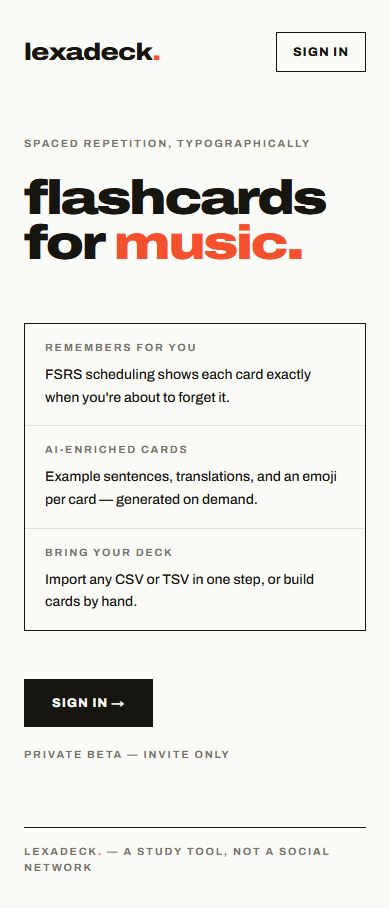
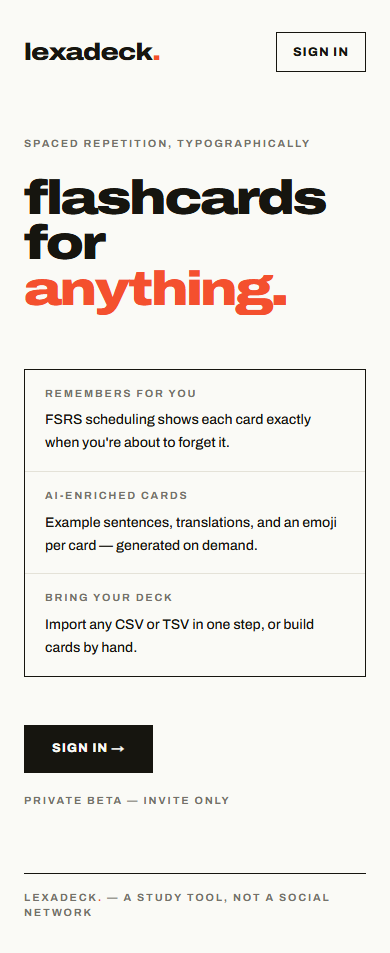
Landing rotation: one pass, then settle on "anything"
The endless loop pulled the eye away from the value props forever. Now:
hold "languages" 1.2s, move quickly through the middle words, decelerate,
and settle permanently on "flashcards for anything." — the rotation shows
the examples, the settle states the thesis. spinTimeline() in lib/spinner.ts
(6 new specs); reduced-motion renders the settled word statically.

diff --git a/lib/spinner.test.ts b/lib/spinner.test.ts
@@ -1,5 +1,5 @@
 import { describe, expect, it } from "vitest";
-import { resolveSubjectWord, SPINNER_WORDS } from "./spinner";
+import { resolveSubjectWord, SPINNER_WORDS, spinTimeline } from "./spinner";
 
 describe("SPINNER_WORDS", () => {
   it("rotates through the use-case domains in order", () => {
@@ -14,6 +14,43 @@ describe("SPINNER_WORDS", () => {
       "geography",
       "music",
     ]);
+  });
+});
+
+describe("spinTimeline", () => {
+  const words = ["languages", "medicine", "law", "geography", "music"];
+
+  it("plays each word exactly once, in order, then settles", () => {
+    const timeline = spinTimeline(words, "anything");
+    expect(timeline.map((e) => e.word)).toEqual([...words, "anything"]);
+  });
+
+  it("ends on the settle word with a terminal hold", () => {
+    const timeline = spinTimeline(words, "anything");
+    expect(timeline[timeline.length - 1]).toEqual({ word: "anything", holdMs: Infinity });
+  });
+
+  it("does not repeat the settle word when it is already in the list", () => {
+    const timeline = spinTimeline(words, "music");
+    expect(timeline.map((e) => e.word)).toEqual(words);
+    expect(timeline[timeline.length - 1].holdMs).toBe(Infinity);
+  });
+
+  it("holds the first word longer than the quick middle words", () => {
+    const timeline = spinTimeline(words, "anything");
+    expect(timeline[0].holdMs).toBeGreaterThan(timeline[1].holdMs);
+  });
+
+  it("decelerates into the settle: the last holds never speed up", () => {
+    const timeline = spinTimeline(words, "anything");
+    const lastThree = timeline.slice(-4, -1).map((e) => e.holdMs);
+    for (let i = 1; i < lastThree.length; i++) {
+      expect(lastThree[i]).toBeGreaterThanOrEqual(lastThree[i - 1]);
+    }
+  });
+
+  it("returns only the settle entry for an empty word list", () => {
+    expect(spinTimeline([], "anything")).toEqual([{ word: "anything", holdMs: Infinity }]);
   });
 });
 

diff --git a/components/ui/WordSpinner.tsx b/components/ui/WordSpinner.tsx
@@ -1,8 +1,7 @@
 "use client";
 
-import { useEffect, useState, useSyncExternalStore } from "react";
-
-const DWELL_MS = 1800;
+import { useEffect, useMemo, useState, useSyncExternalStore } from "react";
+import { spinTimeline } from "@/lib/spinner";
 
 function subscribeReducedMotion(onChange: () => void) {
   const mq = window.matchMedia("(prefers-reduced-motion: reduce)");
@@ -15,18 +14,22 @@ function reducedMotionSnapshot() {
 }
 
 /**
- * Rotating word in the landing-page tagline: cycles through `words` with a
- * quick flip between dwells. Static first word under prefers-reduced-motion.
- * Sized to the current word — neighbors hug the text.
+ * Rotating word in the landing-page tagline: one pass through `words` (long
+ * opening hold, quick middle, decelerating end), then settles on `settleOn`
+ * permanently — the page goes still once the visitor starts reading. Static
+ * `settleOn` under prefers-reduced-motion.
  */
 export function WordSpinner({
   words,
+  settleOn,
   className = "",
 }: {
   words: string[];
+  settleOn: string;
   className?: string;
 }) {
-  const [index, setIndex] = useState(0);
+  const timeline = useMemo(() => spinTimeline(words, settleOn), [words, settleOn]);
+  const [current, setCurrent] = useState(timeline[0].word);
   const reduced = useSyncExternalStore(
     subscribeReducedMotion,
     reducedMotionSnapshot,
@@ -34,14 +37,21 @@ export function WordSpinner({
   );
 
   useEffect(() => {
-    if (reduced || words.length <= 1) return;
-    const id = setInterval(() => {
-      setIndex((i) => (i + 1) % words.length);
-    }, DWELL_MS);
-    return () => clearInterval(id);
-  }, [reduced, words.length]);
+    if (reduced) return;
+    let i = 0;
+    let timer: ReturnType<typeof setTimeout>;
+    const advance = () => {
+      i += 1;
+      setCurrent(timeline[i].word);
+      if (Number.isFinite(timeline[i].holdMs)) {
+        timer = setTimeout(advance, timeline[i].holdMs);
+      } // terminal entry: settled, no further timers
+    };
+    if (timeline.length > 1) timer = setTimeout(advance, timeline[0].holdMs);
+    return () => clearTimeout(timer);
+  }, [timeline, reduced]);
 
-  const displayed = reduced ? words[0] : words[index];
+  const displayed = reduced ? settleOn : current;
 
   return (
     <span key={displayed} className={`word-spin-in inline-block ${className}`}>

diff --git a/lib/spinner.ts b/lib/spinner.ts
@@ -16,6 +16,35 @@ export const SPINNER_WORDS = [
   "music",
 ];
 
+export interface SpinEntry {
+  word: string;
+  holdMs: number;
+}
+
+const FIRST_HOLD_MS = 1200;
+const STEP_MS = 650;
+const SLOW_MS = 900;
+const SLOWER_MS = 1200;
+
+/**
+ * One pass through `words` — hold the opener, move quickly through the middle,
+ * decelerate at the end — then settle on `settleOn` forever (terminal entry,
+ * holdMs Infinity). The rotation shows the examples; the settle states the
+ * thesis. `settleOn` is never played twice if it already ends the list.
+ */
+export function spinTimeline(words: readonly string[], settleOn: string): SpinEntry[] {
+  const pass = words[words.length - 1] === settleOn ? words.slice(0, -1) : [...words];
+  const entries: SpinEntry[] = pass.map((word, i) => {
+    let holdMs = STEP_MS;
+    if (i === 0) holdMs = FIRST_HOLD_MS;
+    else if (i === pass.length - 1) holdMs = SLOWER_MS;
+    else if (i === pass.length - 2) holdMs = SLOW_MS;
+    return { word, holdMs };
+  });
+  entries.push({ word: settleOn, holdMs: Infinity });
+  return entries;
+}
+
 export interface SubjectDeck {
   language: string;
 }

diff --git a/app/welcome/page.tsx b/app/welcome/page.tsx
@@ -29,7 +29,7 @@ export default async function WelcomePage() {
           <br />
           for{" "}
           <span className="whitespace-nowrap text-coral">
-            <WordSpinner words={SPINNER_WORDS} />.
+            <WordSpinner words={SPINNER_WORDS} settleOn="anything" />.
           </span>
         </h1>
 